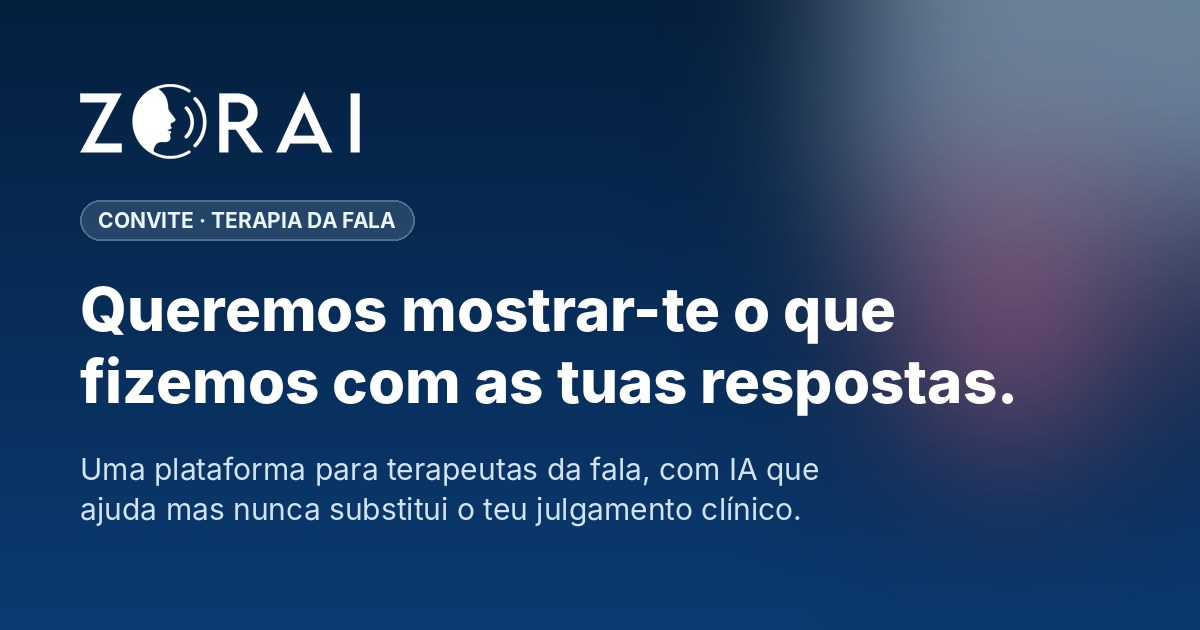
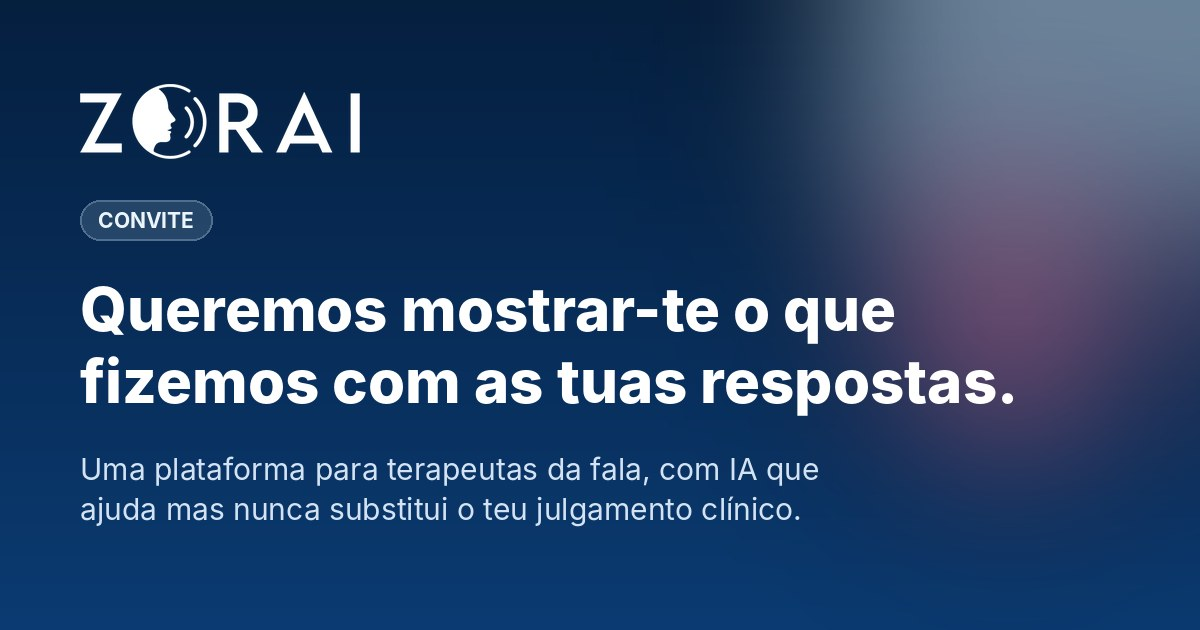
Add files via upload

Changed region(s): [[0.1542, 0.3016, 0.37, 0.3921]]

diff --git a/index.html b/index.html
@@ -111,7 +111,10 @@
   .cta h2{color:#fff;margin-bottom:8px}
   .cta p{color:#FFF0F3}
 
-  footer{padding:30px 0 40px;font-size:13px;color:var(--muted);text-align:center}
+  footer{padding:30px 0 40px;font-size:14px;color:var(--muted);text-align:center}
+  .foot-name{display:block;font-weight:600;color:var(--navy)}
+  .foot-mail{display:inline-block;margin-top:2px;color:var(--mid);text-decoration:none;font-weight:500}
+  .foot-mail:hover{text-decoration:underline}
 
 
   /* Painel em moldura */
@@ -159,7 +162,7 @@
   <div class="orb a"></div><div class="orb b"></div>
   <div class="wrap">
     <img class="logo" src="logo-branco.png" alt="ZORAI" width="120">
-    <span class="eyebrow">Convite · Terapia da Fala</span>
+    <span class="eyebrow">Convite</span>
     <h1>Queremos mostrar-te o que fizemos com as tuas respostas.</h1>
     <p>A ZORAI é uma plataforma para terapeutas da fala que junta o trabalho clínico e o administrativo, com um assistente de IA que ajuda, mas nunca substitui a terapeuta. As decisões são sempre tuas.</p>
   </div>
@@ -256,7 +259,8 @@
 <footer>
   <div class="wrap">
     <img class="logo-foot" src="logo-navy.png" alt="ZORAI" width="96">
-    Protótipo em desenvolvimento. Obrigado pelo teu tempo.
+    <span class="foot-name">Daniel Machado</span>
+    <a class="foot-mail" href="mailto:contacto@zorai.pt">contacto@zorai.pt</a>
   </div>
 </footer>
 
